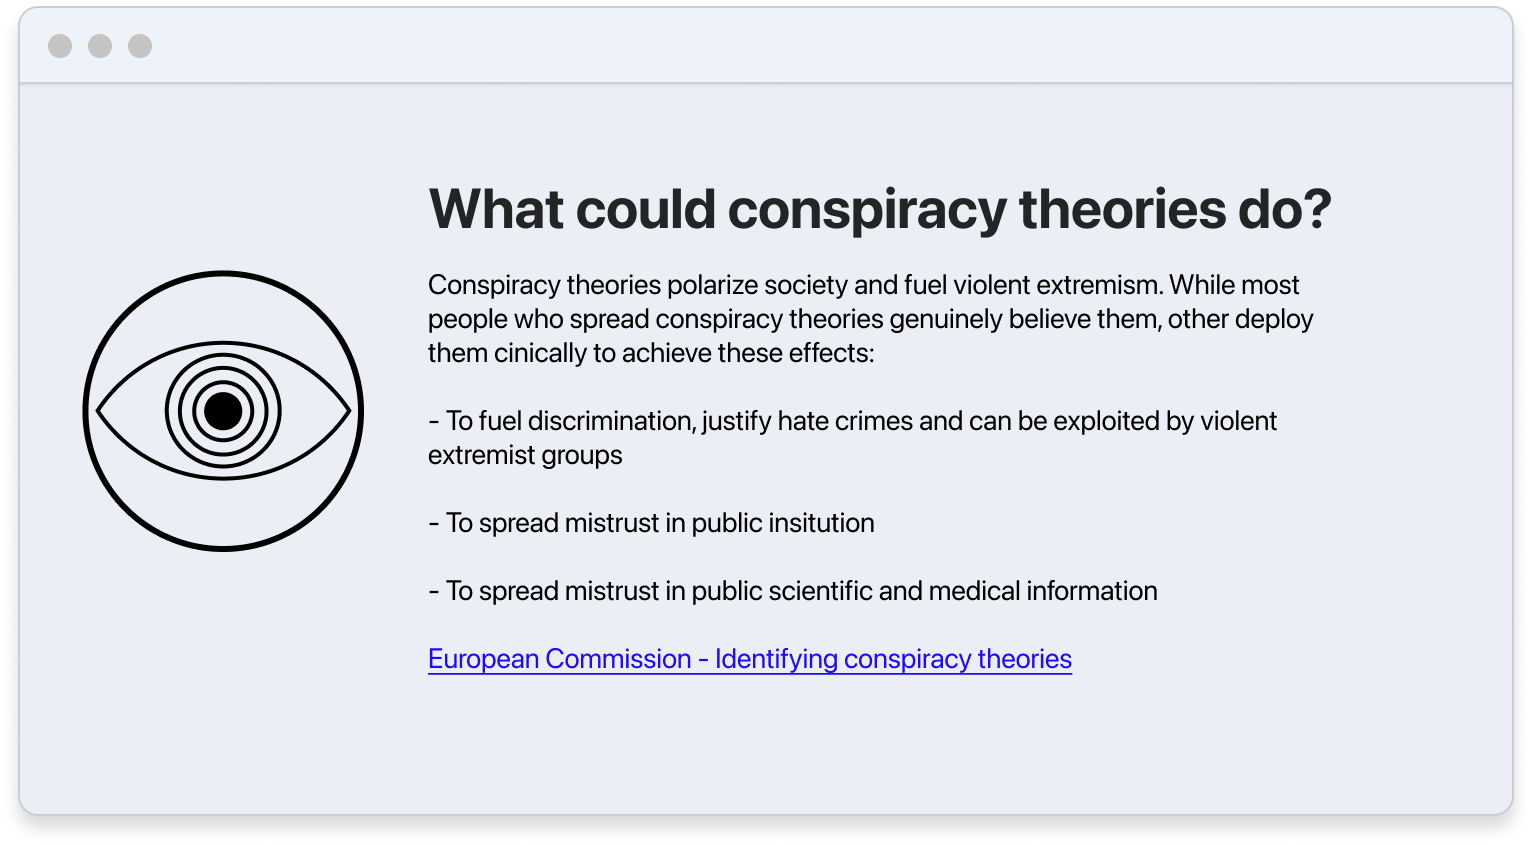
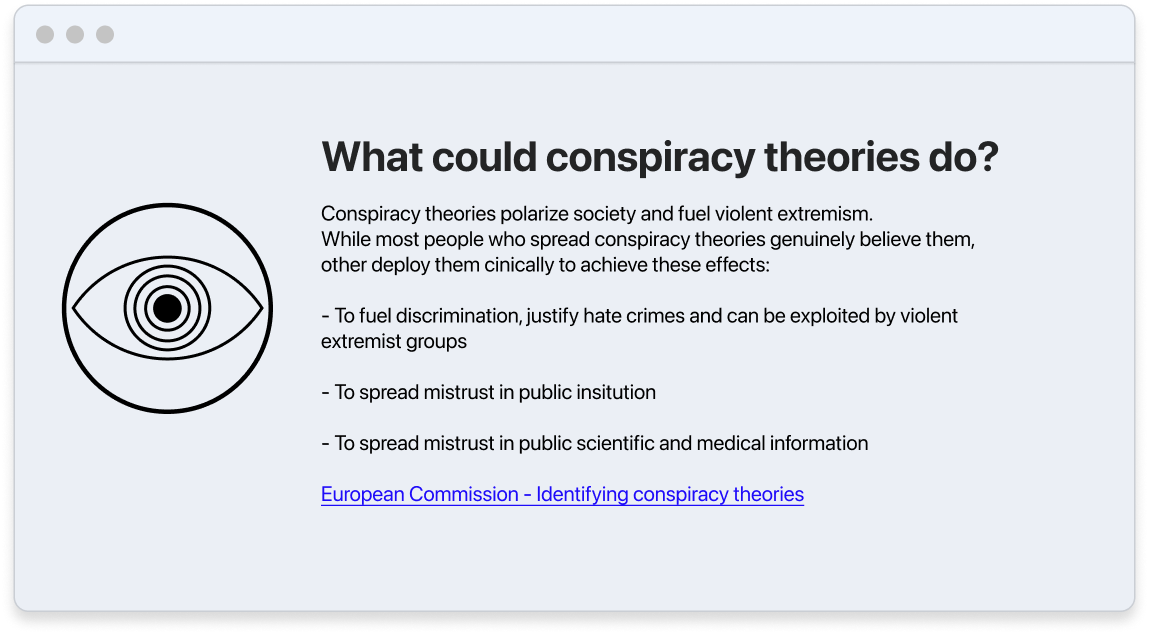
ritardo alert

diff --git a/index.html b/index.html
@@ -94,7 +94,7 @@
     </div>
 
     <div  class="sticky" id="home_4">
-      <a href="https://ec.europa.eu/info/live-work-travel-eu/coronavirus-response/fighting-disinformation/identifying-conspiracy-theories_en" target="_blank"><img src="images/home/home_4.png" width="748px" heigh="405px"></a>
+      <a href="https://ec.europa.eu/info/live-work-travel-eu/coronavirus-response/fighting-disinformation/identifying-conspiracy-theories_en" target="_blank"><img src="images/home/home_4.png" width="676px" heigh="366px"></a>
     </div>
 
 

diff --git a/css/css.css b/css/css.css
@@ -277,12 +277,21 @@ opacity: 20%; */
   }
 
   #alert_active {
+    margin-top: 25vh;
     height: 10vh;
     width: 100vw;
     z-index: 14;
   }
 
   #alert_active2 {
+    margin-top: 25vh;
+    height: 10vh;
+    width: 100vw;
+    z-index: 14;
+  }
+
+  #alert_active3 {
+    margin-top: 25vh;
     height: 10vh;
     width: 100vw;
     z-index: 14;
